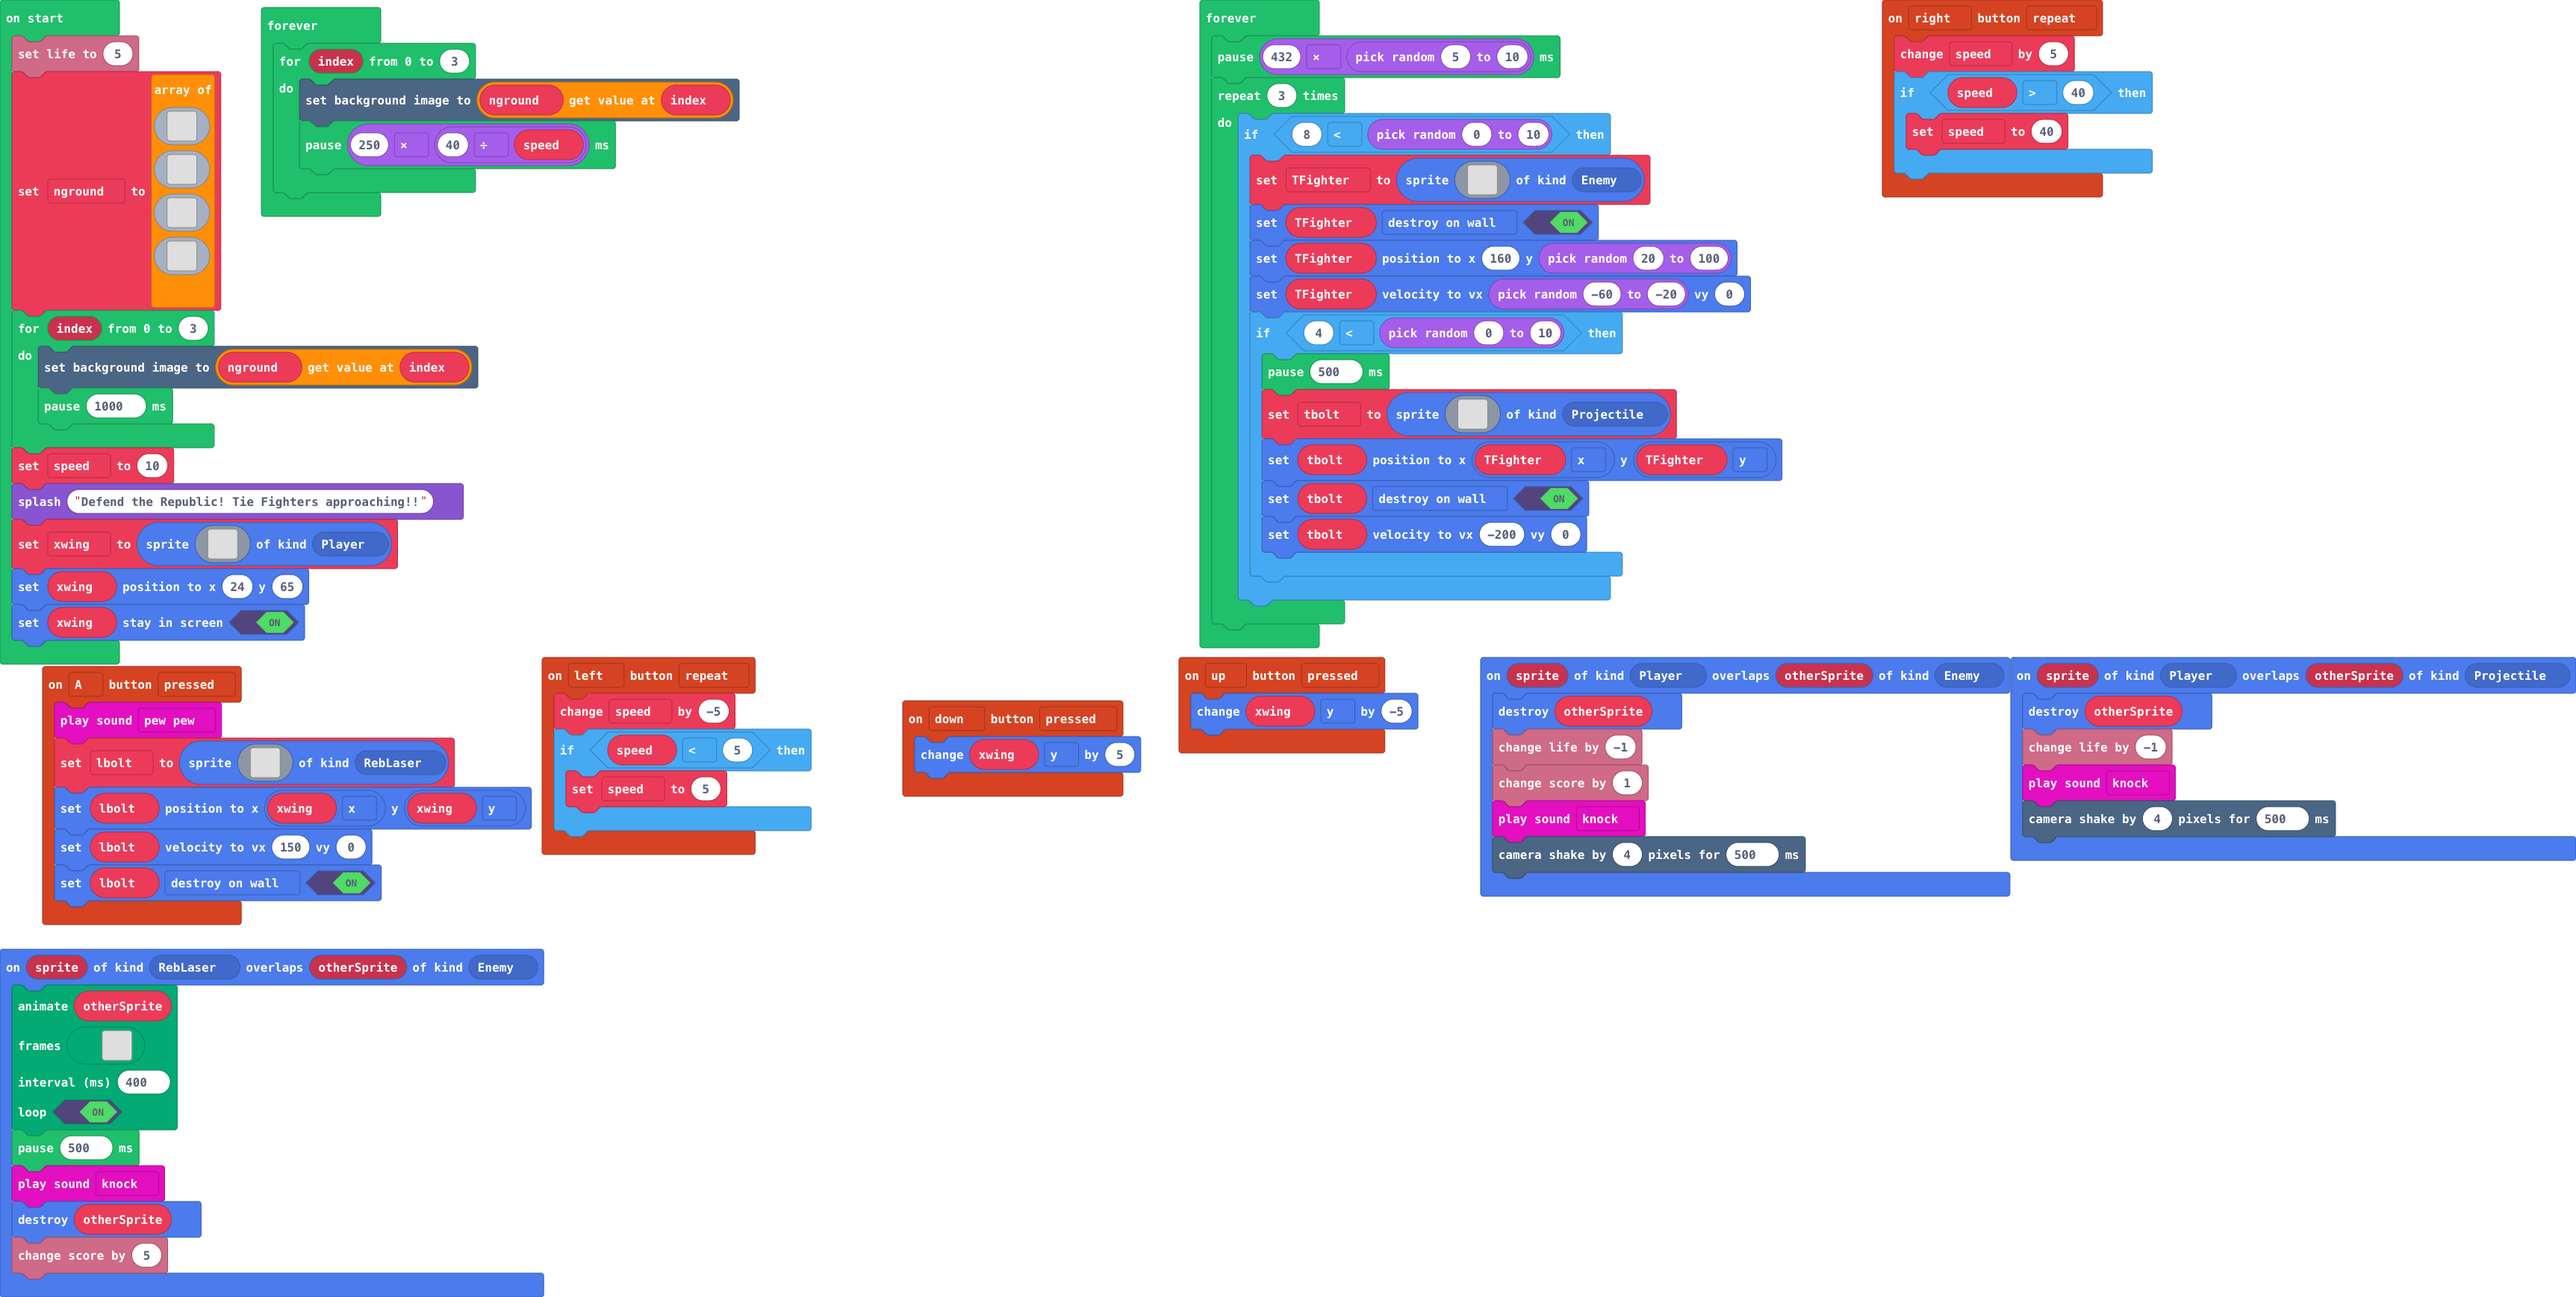
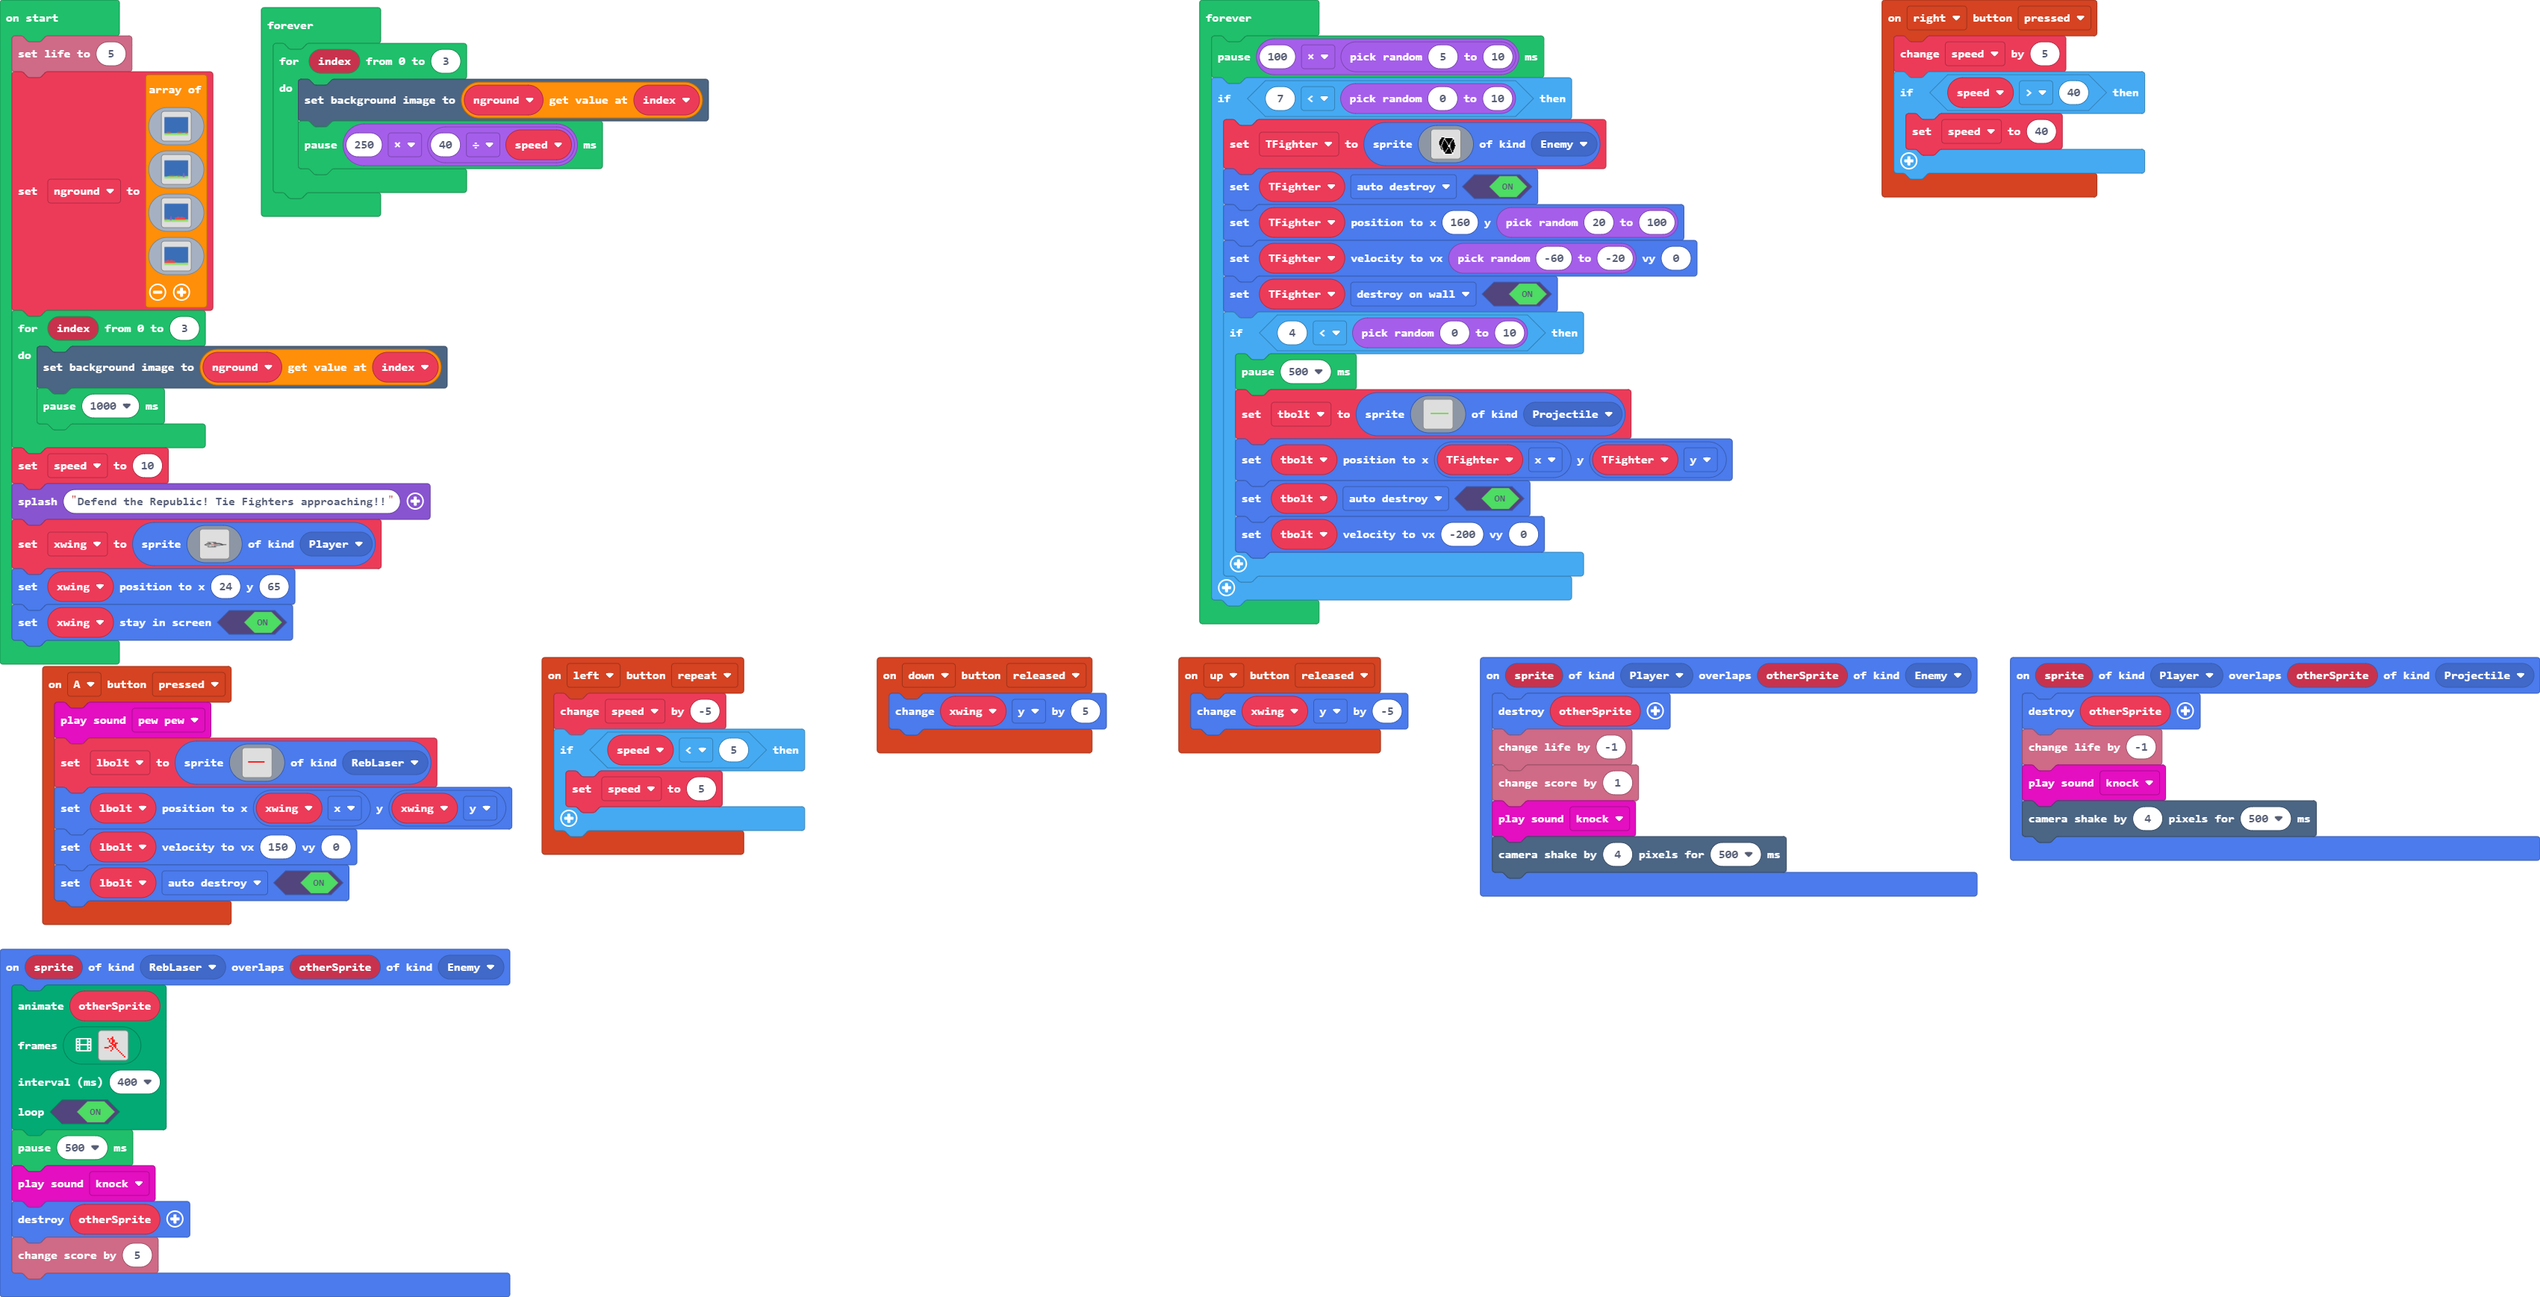
Update main.blocks, main.ts

diff --git a/main.ts b/main.ts
@@ -2,9 +2,6 @@ namespace SpriteKind {
     export const scenery = SpriteKind.create()
     export const RebLaser = SpriteKind.create()
 }
-controller.up.onEvent(ControllerButtonEvent.Pressed, function () {
-    xwing.y += -5
-})
 sprites.onOverlap(SpriteKind.RebLaser, SpriteKind.Enemy, function (sprite, otherSprite) {
     animation.runImageAnimation(
     otherSprite,
@@ -22,9 +19,12 @@ controller.A.onEvent(ControllerButtonEvent.Pressed, function () {
     lbolt = sprites.create(assets.image`laser`, SpriteKind.RebLaser)
     lbolt.setPosition(xwing.x, xwing.y)
     lbolt.setVelocity(150, 0)
-    lbolt.setFlag(SpriteFlag.DestroyOnWall, true)
+    lbolt.setFlag(SpriteFlag.AutoDestroy, true)
 })
-controller.right.onEvent(ControllerButtonEvent.Repeated, function () {
+controller.down.onEvent(ControllerButtonEvent.Released, function () {
+    xwing.y += 5
+})
+controller.right.onEvent(ControllerButtonEvent.Pressed, function () {
     speed += 5
     if (speed > 40) {
         speed = 40
@@ -36,8 +36,8 @@ sprites.onOverlap(SpriteKind.Player, SpriteKind.Projectile, function (sprite, ot
     music.knock.play()
     scene.cameraShake(4, 500)
 })
-controller.down.onEvent(ControllerButtonEvent.Pressed, function () {
-    xwing.y += 5
+controller.up.onEvent(ControllerButtonEvent.Released, function () {
+    xwing.y += -5
 })
 sprites.onOverlap(SpriteKind.Player, SpriteKind.Enemy, function (sprite, otherSprite) {
     otherSprite.destroy()
@@ -80,20 +80,19 @@ forever(function () {
     }
 })
 forever(function () {
-    pause(432 * randint(5, 10))
-    for (let index = 0; index < 3; index++) {
-        if (8 < randint(0, 10)) {
-            TFighter = sprites.create(assets.image`Tie`, SpriteKind.Enemy)
-            TFighter.setFlag(SpriteFlag.DestroyOnWall, true)
-            TFighter.setPosition(160, randint(20, 100))
-            TFighter.setVelocity(randint(-60, -20), 0)
-            if (4 < randint(0, 10)) {
-                pause(500)
-                tbolt = sprites.create(assets.image`tie-laser`, SpriteKind.Projectile)
-                tbolt.setPosition(TFighter.x, TFighter.y)
-                tbolt.setFlag(SpriteFlag.DestroyOnWall, true)
-                tbolt.setVelocity(-200, 0)
-            }
+    pause(100 * randint(5, 10))
+    if (7 < randint(0, 10)) {
+        TFighter = sprites.create(assets.image`Tie`, SpriteKind.Enemy)
+        TFighter.setFlag(SpriteFlag.AutoDestroy, true)
+        TFighter.setPosition(160, randint(20, 100))
+        TFighter.setVelocity(randint(-60, -20), 0)
+        TFighter.setFlag(SpriteFlag.DestroyOnWall, true)
+        if (4 < randint(0, 10)) {
+            pause(500)
+            tbolt = sprites.create(assets.image`tie-laser`, SpriteKind.Projectile)
+            tbolt.setPosition(TFighter.x, TFighter.y)
+            tbolt.setFlag(SpriteFlag.AutoDestroy, true)
+            tbolt.setVelocity(-200, 0)
         }
     }
 })
